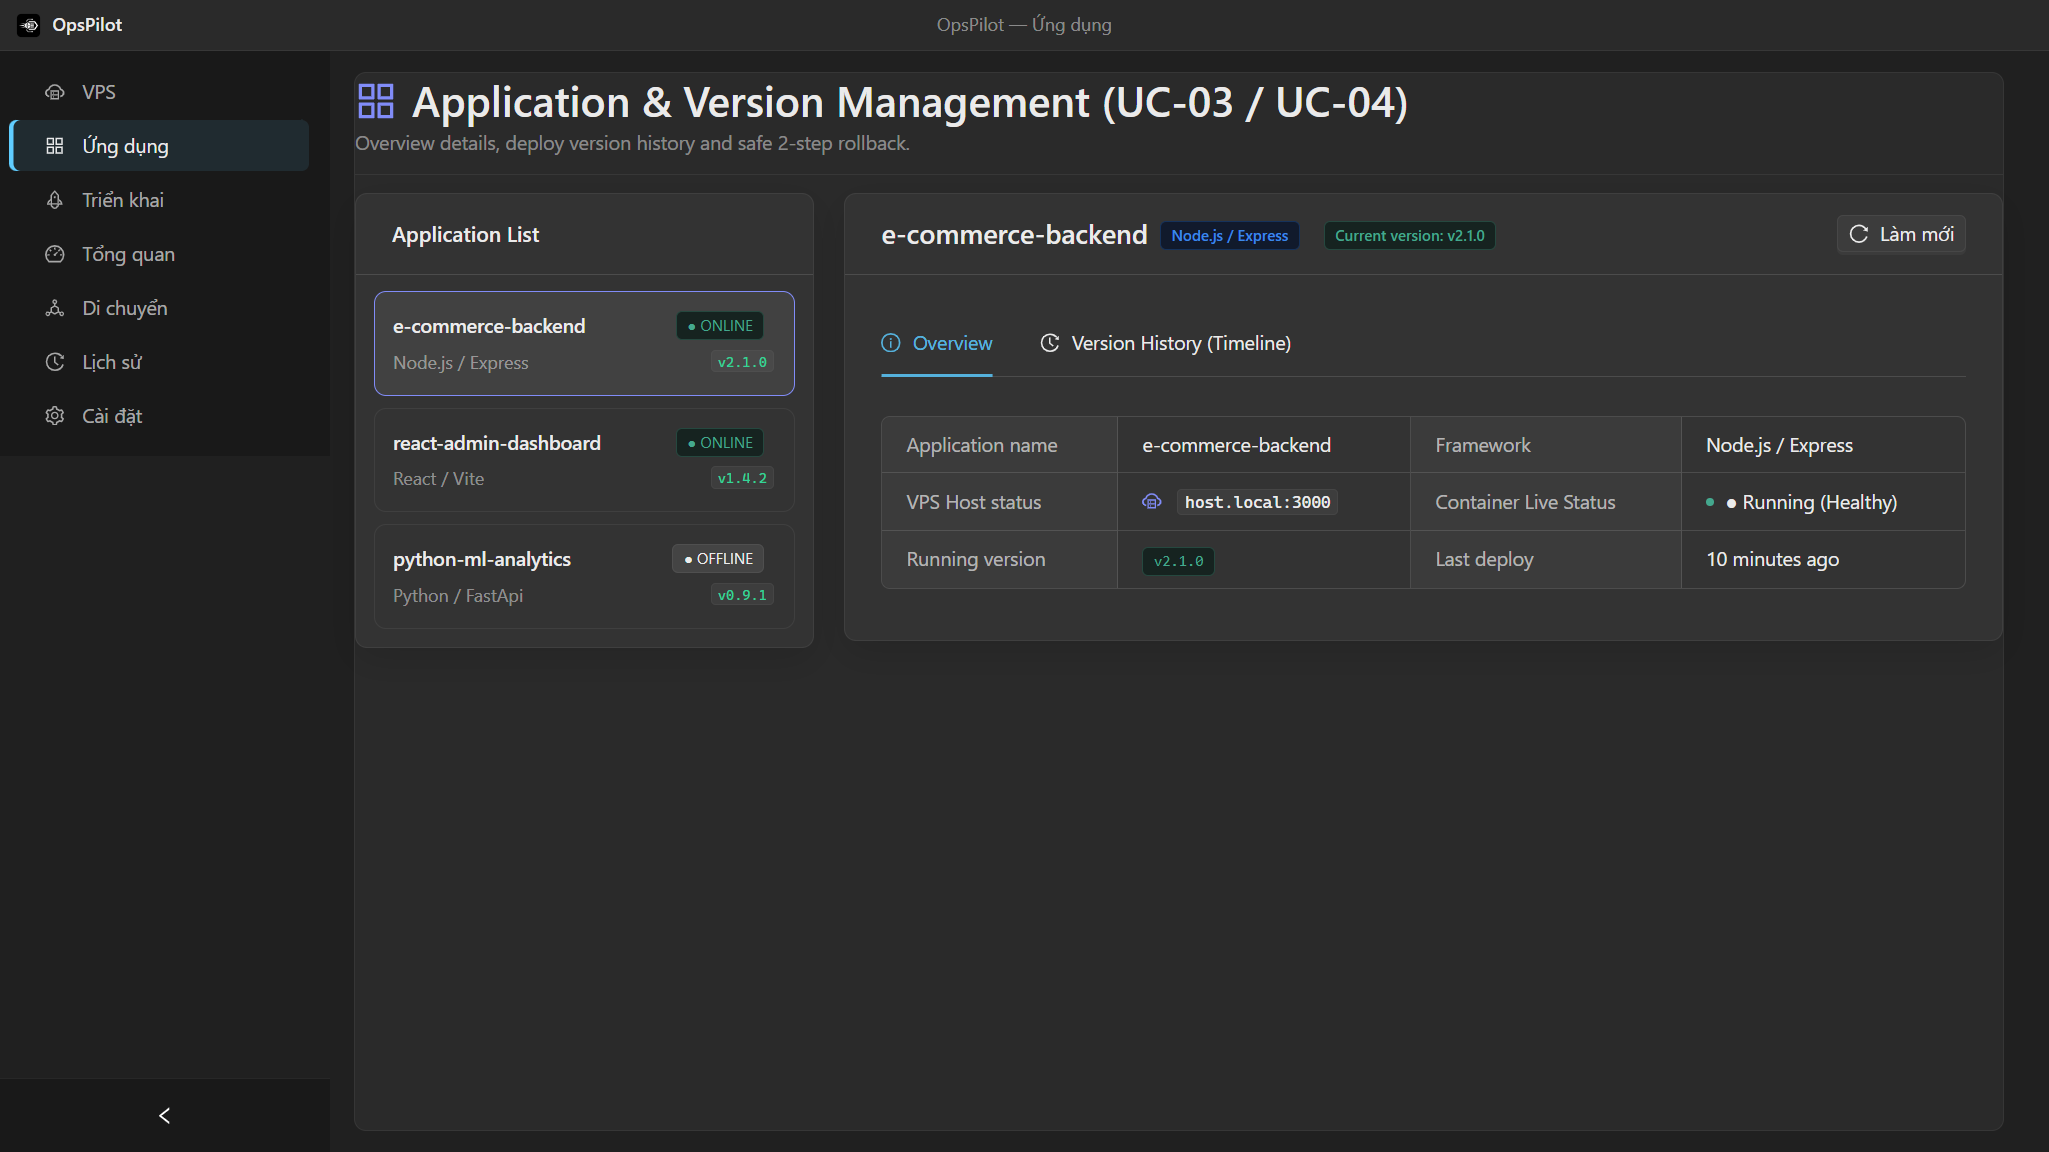
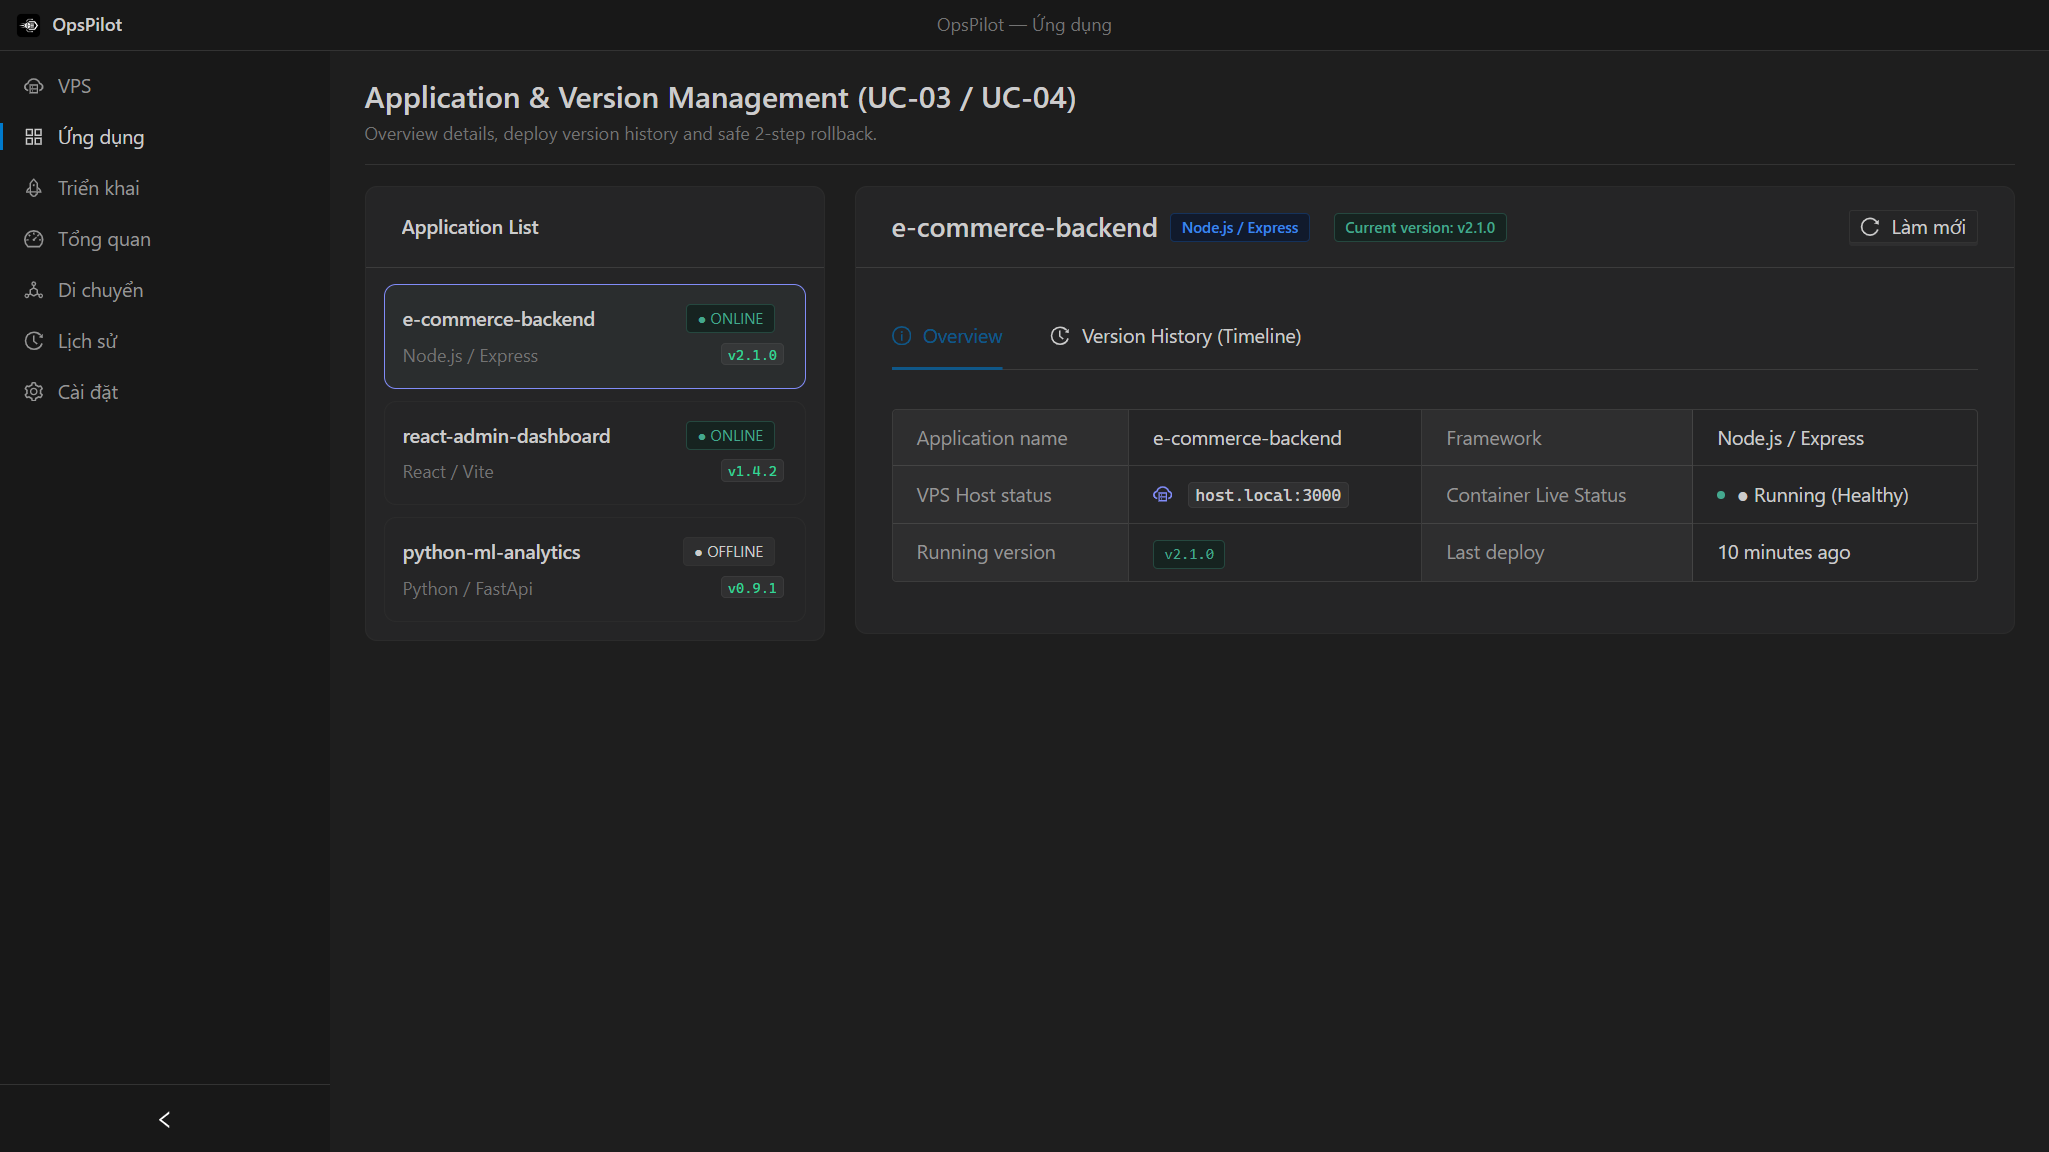
docs(ui): cập nhật evidence bản demo gọn

diff --git a/docs/tasks/board.md b/docs/tasks/board.md
@@ -5,7 +5,10 @@
 >
 > Trạng thái hợp lệ: `BACKLOG · TUẦN NÀY · ĐANG LÀM · CHỜ REVIEW · HOÀN THÀNH · BLOCKED`.
 
-TK-A18 Review-Fix 03: `READY_FOR_LOCAL_REVIEW` tại local checkpoints `a233a2e`, `e9cb70c`, `197c703`; A18-R2-01…07 đã đóng, Snap Layout ghi manual-only, không push/PR/merge.
+TK-A18 Owner polish 04: `READY_FOR_LOCAL_REVIEW` tại code checkpoint `ef3b530`; giao diện demo đã
+gọn theo nhịp desktop/VS Code, tab active chỉ còn rail 2 px, header/action không tràn pane; Snap Layout
+ghi manual-only, không push/PR/merge.
+
 > Mỗi người tối đa **một** task `ĐANG LÀM`; Worker đổi trạng thái khi thật sự bắt đầu, không đổi
 > thay người kia. `HOÀN THÀNH` chỉ sau khi PR merge `main` và đủ bằng chứng.
 
@@ -33,19 +36,19 @@ TK-A18 Review-Fix 03: `READY_FOR_LOCAL_REVIEW` tại local checkpoints `a233a2e`
 
 ## Đang ưu tiên — W3/W4
 
-| ID     | Task                                                                 | Chủ                   | Hạn       | Trạng thái | Branch                      | PR/phụ thuộc                | Ghi chú                                                           |
-| ------ | -------------------------------------------------------------------- | --------------------- | --------- | ---------- | --------------------------- | --------------------------- | ----------------------------------------------------------------- |
-| TK-A18 | UI Windows 11 Fluent, Mica/native titlebar, dark mặc định            | A/Worker              | 14/09     | CHỜ REVIEW | `feat/a18-native-dark-ui`   | READY_FOR_LOCAL_REVIEW      | R2-01…07 fixed locally; checkpoints `a233a2e`, `e9cb70c`, `197c703`, `e3df697`, `9eff0cc`; Snap manual-only |
-| TK-A17 | Demo 14/09: deploy đa source → migrate hai VPS → đối chiếu dữ liệu   | A                     | 14/09     | CHỜ REVIEW | `feat/a17-demo-checkpoint`  | C05 DEMO_READY              | Rehearsal SHA 936e643; chưa push/PR/merge                         |
-| TK-A15 | M4 hardening: rollback thật + 3 image + diagnostic/retry + lock port | A                     | 08/09     | HOÀN THÀNH | `feat/m04-deploy-hardening` | #25 merge                   | Evidence VM02 01/09 và full 220/220; A17 chạy gate mới            |
-| TK-B4  | M5: docker stats + HTTP probe local                                  | B                     | 01/09     | HOÀN THÀNH | `feat/m05-collector-probes` | Gộp #26 merge               | `fe1da33`; 21/21 theo task B                                      |
-| TK-B5  | M5: metrics.jsonl + latest.json, seq/fsync/rotation                  | B → A nghiệm thu      | C02       | CHỜ REVIEW | `feat/m05-collector-output` | #26 merge                   | Code đã merge; DoD SSH tail tại A17/C02                           |
-| TK-B6  | M5: collector Docker trên VPS                                        | B → A tích hợp        | C01       | CHỜ REVIEW | `feat/m05-collector-docker` | report `dfc0ed7` chưa merge | A17/C00–C01 tái xác minh, giữ app B                               |
-| TK-S4  | Gate dữ liệu thật A16 + collector VPS                                | A solo                | Sau 28/09 | BACKLOG    | Qua TK-A17                  | C01–C02 đã đạt              | Phần ML deferred để thu thêm dữ liệu                              |
-| TK-B8  | Monitor Dashboard: chart + score + alert UI                          | A làm thay B từ 10/09 | Sau 28/09 | BACKLOG    | Qua TK-A17                  | Sau demo 14/09              | Không mở song song với deploy/migrate                             |
-| TK-A7  | M3: detector 3 Tier 1                                                | A                     | C03       | BACKLOG    | `feat/m03-tier1-detectors`  | Gộp scope vào A17/C03       | Express/Next/Vite phục vụ trực tiếp demo 14/09                    |
-| TK-B2  | M12: next-blog + vite-spa + fault endpoint                           | B                     | 10/09     | HOÀN THÀNH | `feat/m12-demo-apps-rest`   | #28 merge                   | 3 app Docker/fault smoke theo B; detector 3 stack chưa hoàn thành |
-| TK-S5  | Gate MVP 16/24 FR + smoke/rollback/alert                             | A solo                | Sau A17   | BACKLOG    | —                           | A17/C09                     | Demo có evidence, không tự xác nhận 16/24 FR                      |
+| ID     | Task                                                                 | Chủ                   | Hạn       | Trạng thái | Branch                      | PR/phụ thuộc                | Ghi chú                                                                                      |
+| ------ | -------------------------------------------------------------------- | --------------------- | --------- | ---------- | --------------------------- | --------------------------- | -------------------------------------------------------------------------------------------- |
+| TK-A18 | UI Windows 11 Fluent, Mica/native titlebar, dark mặc định            | A/Worker              | 14/09     | CHỜ REVIEW | `feat/a18-native-dark-ui`   | READY_FOR_LOCAL_REVIEW      | Owner polish `ef3b530`: VS Code density, rail active, overflow containment; Snap manual-only |
+| TK-A17 | Demo 14/09: deploy đa source → migrate hai VPS → đối chiếu dữ liệu   | A                     | 14/09     | CHỜ REVIEW | `feat/a17-demo-checkpoint`  | C05 DEMO_READY              | Rehearsal SHA 936e643; chưa push/PR/merge                                                    |
+| TK-A15 | M4 hardening: rollback thật + 3 image + diagnostic/retry + lock port | A                     | 08/09     | HOÀN THÀNH | `feat/m04-deploy-hardening` | #25 merge                   | Evidence VM02 01/09 và full 220/220; A17 chạy gate mới                                       |
+| TK-B4  | M5: docker stats + HTTP probe local                                  | B                     | 01/09     | HOÀN THÀNH | `feat/m05-collector-probes` | Gộp #26 merge               | `fe1da33`; 21/21 theo task B                                                                 |
+| TK-B5  | M5: metrics.jsonl + latest.json, seq/fsync/rotation                  | B → A nghiệm thu      | C02       | CHỜ REVIEW | `feat/m05-collector-output` | #26 merge                   | Code đã merge; DoD SSH tail tại A17/C02                                                      |
+| TK-B6  | M5: collector Docker trên VPS                                        | B → A tích hợp        | C01       | CHỜ REVIEW | `feat/m05-collector-docker` | report `dfc0ed7` chưa merge | A17/C00–C01 tái xác minh, giữ app B                                                          |
+| TK-S4  | Gate dữ liệu thật A16 + collector VPS                                | A solo                | Sau 28/09 | BACKLOG    | Qua TK-A17                  | C01–C02 đã đạt              | Phần ML deferred để thu thêm dữ liệu                                                         |
+| TK-B8  | Monitor Dashboard: chart + score + alert UI                          | A làm thay B từ 10/09 | Sau 28/09 | BACKLOG    | Qua TK-A17                  | Sau demo 14/09              | Không mở song song với deploy/migrate                                                        |
+| TK-A7  | M3: detector 3 Tier 1                                                | A                     | C03       | BACKLOG    | `feat/m03-tier1-detectors`  | Gộp scope vào A17/C03       | Express/Next/Vite phục vụ trực tiếp demo 14/09                                               |
+| TK-B2  | M12: next-blog + vite-spa + fault endpoint                           | B                     | 10/09     | HOÀN THÀNH | `feat/m12-demo-apps-rest`   | #28 merge                   | 3 app Docker/fault smoke theo B; detector 3 stack chưa hoàn thành                            |
+| TK-S5  | Gate MVP 16/24 FR + smoke/rollback/alert                             | A solo                | Sau A17   | BACKLOG    | —                           | A17/C09                     | Demo có evidence, không tự xác nhận 16/24 FR                                                 |
 
 ## Phụ thuộc được xử lý trong A17 hoặc sau demo
 

diff --git a/docs/tasks/tk-a18/handoff.md b/docs/tasks/tk-a18/handoff.md
@@ -7,6 +7,20 @@
 - Task packet: [`../tk-a18-native-dark-ui.md`](../tk-a18-native-dark-ui.md)
 - Evidence: `docs/evidence/tk-a18/`
 
+## Owner polish 04 — bản gọn cho demo
+
+- Code checkpoint: `ef3b530`, xuất phát từ `7f7ec04`.
+- Giảm giao diện về nhịp desktop kiểu VS Code: nền tối đặc có phân vùng, card phẳng, radius nhỏ,
+  tiêu đề 20 px và primary action xanh trầm.
+- Navigation chính, navigation trong panel và danh mục Settings không còn selected fill/pill; trạng
+  thái hiện hành dùng vạch accent 2 px và màu chữ.
+- Bỏ khung card bao toàn trang, giới hạn nội dung 1100 px, cho header/action tự wrap, giới hạn Select,
+  Table và Steps trong pane để tránh chồng hoặc tràn ngang ở 1366×768.
+- Fresh capture: `docs/evidence/tk-a18/review-02/after/`, bảy route 1366×768 và Deploy/Migrate
+  1920×1080; `capture.json` exit 0, DPR 1.5, resize/maximize-restore PASS, Snap Layout manual-only.
+- Gates: app `291/291`; focused Deploy `5/5`; typecheck, lint, scoped Prettier và production build
+  (3045 modules) PASS. Không live mutation, backend/contract change, push, PR hoặc merge.
+
 ## Local handoff
 
 - Code checkpoints: `a233a2e` (WCO safe-area/ignore), `e9cb70c` (canonical Fluent states + route markers), `197c703` (initial Vietnamese copy/tests), `e3df697` (complete Vietnamese copy/tests), `9eff0cc` (evidence/docs); final bookkeeping checkpoint follows.

diff --git a/docs/tasks/tk-a18-native-dark-ui.md b/docs/tasks/tk-a18-native-dark-ui.md
@@ -161,6 +161,11 @@ Reviewer phải trả lời **có** cho cả sáu câu:
 
 ## Nhật ký
 
+- `OWNER-POLISH-04 13/09` — Từ `7f7ec04`, sửa nhanh cho bản demo tại `ef3b530`: nền/sidebar kiểu
+  desktop editor, bỏ selected fill/pill và dùng rail 2 px, bỏ card bao trang, giảm title/radius/shadow,
+  giới hạn header/button/Select/Table/Steps trong pane. Fresh capture đủ 7 route; app `291/291`,
+  focused Deploy `5/5`, typecheck/lint/Prettier/build PASS. Không live mutation, push/PR/merge.
+
 - `REVIEW-FIX-03 13/09` - Từ HEAD chứa Leader review, đóng A18-R2-01…07 theo checkpoints `a233a2e`, `e9cb70c`, `197c703`: WCO safe-area, canonical Fluent states với production usage, tiếng Việt, deterministic route capture, restored Prettier ignores và local handoff. Native resize/maximize-restore smoke được ghi; Snap Layout giữ verdict manual-only. Không live VPS/deploy/migrate/ML, không đổi contract/preload/shared/backend, không push/PR/merge.
 
 - `START 13/09` — Worker bắt đầu trên branch `feat/a18-native-dark-ui`: khóa phạm vi renderer-only, giữ nguyên file untracked của A, dựng dark shell trước rồi restyle 7 màn, test/evidence/handoff ở checkpoint cuối.

diff --git a/docs/evidence/tk-a18/review-02/README.md b/docs/evidence/tk-a18/review-02/README.md
@@ -1,5 +1,15 @@
 # TK-A18 Review 02 evidence
 
+## Owner polish 04 — fresh evidence
+
+- Bộ `after/` hiện tại được chụp lại từ production build của code checkpoint `ef3b530` sau yêu cầu
+  sửa nhanh UI cho demo.
+- Capture gồm đủ bảy route ở 1366×768 và Deploy/Migrate ở 1920×1080. Metadata ghi DPR 1.5,
+  `MICA_FALLBACK`, native resize/maximize-restore PASS và Snap Layout manual-only.
+- Kiểm tra ảnh xác nhận selected navigation chỉ dùng rail 2 px, page wrapper không còn card lớn,
+  tiêu đề đã thu gọn và action/selector/steps nằm trong pane.
+- Capture dùng profile tạm, scrub host/IP và không thực hiện live deploy, migrate hay mutation VPS.
+
 ## Review-Fix 03 acceptance note
 
 - Capture now asserts the selected menu and `[data-page-key]` marker, waits for a compositor frame, records DPR/dimensions, copies the local DB fixture when available, and scrubs host/IP values.
